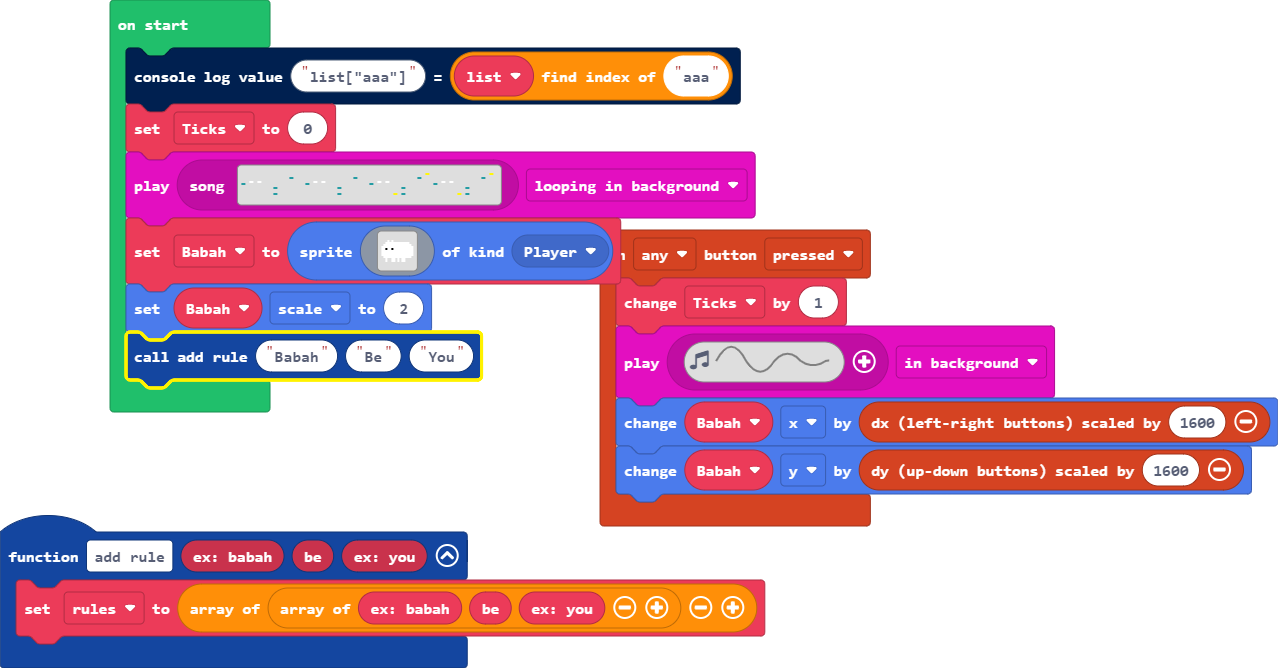
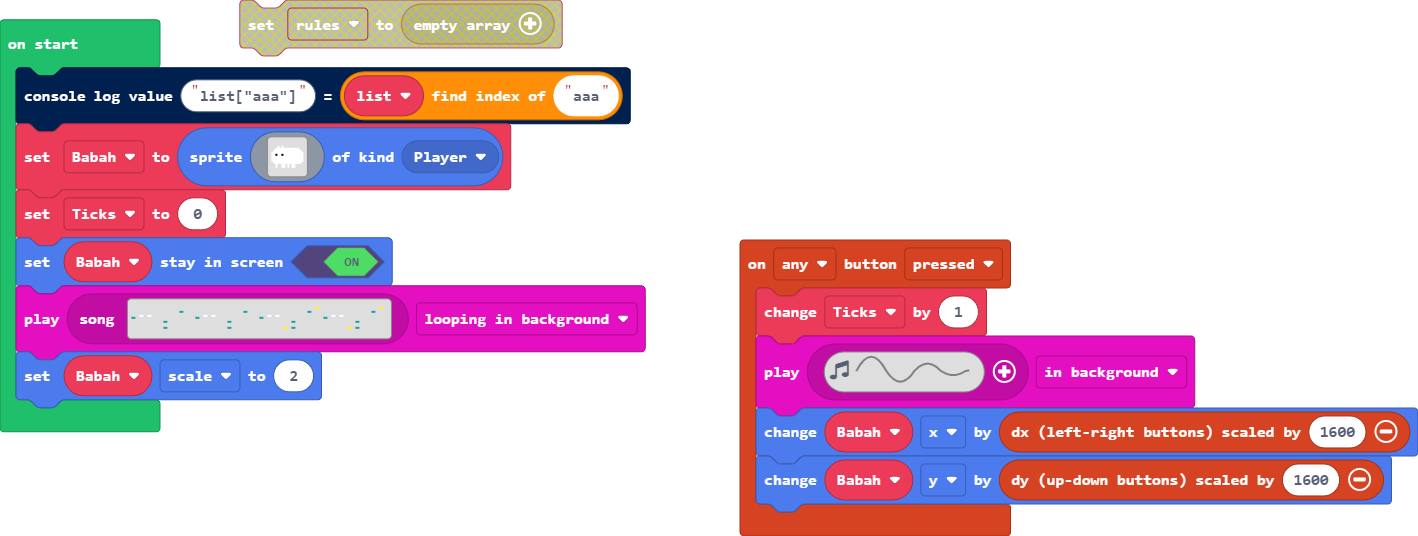
Update main.blocks, main.ts

diff --git a/main.ts b/main.ts
@@ -4,15 +4,11 @@ controller.anyButton.onEvent(ControllerButtonEvent.Pressed, function () {
     Babah.x += controller.dx(1600)
     Babah.y += controller.dy(1600)
 })
-function add_rule (ex_babah: string, be: string, ex_you: string) {
-    rules = [[ex_babah, be, ex_you]]
-}
-let rules: string[][] = []
 let Babah: Sprite = null
 let list: string[] = []
 console.logValue("list[\"aaa\"]", list.indexOf("aaa"))
-let Ticks = 0
-music.play(music.createSong(assets.song`Theme`), music.PlaybackMode.LoopingInBackground)
 Babah = sprites.create(assets.image`Babah`, SpriteKind.Player)
+let Ticks = 0
+Babah.setStayInScreen(true)
+music.play(music.createSong(assets.song`Theme`), music.PlaybackMode.LoopingInBackground)
 Babah.scale = 2
-add_rule("Babah", "Be", "You")
